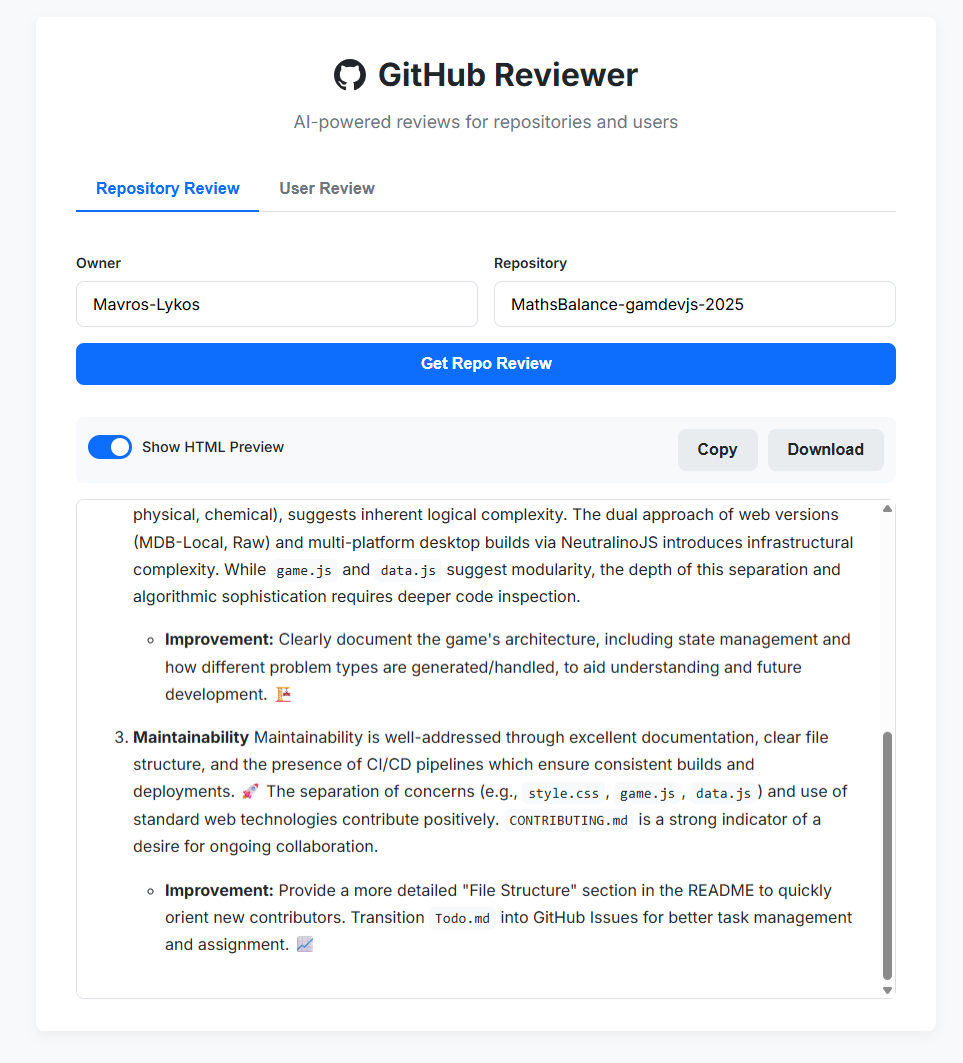
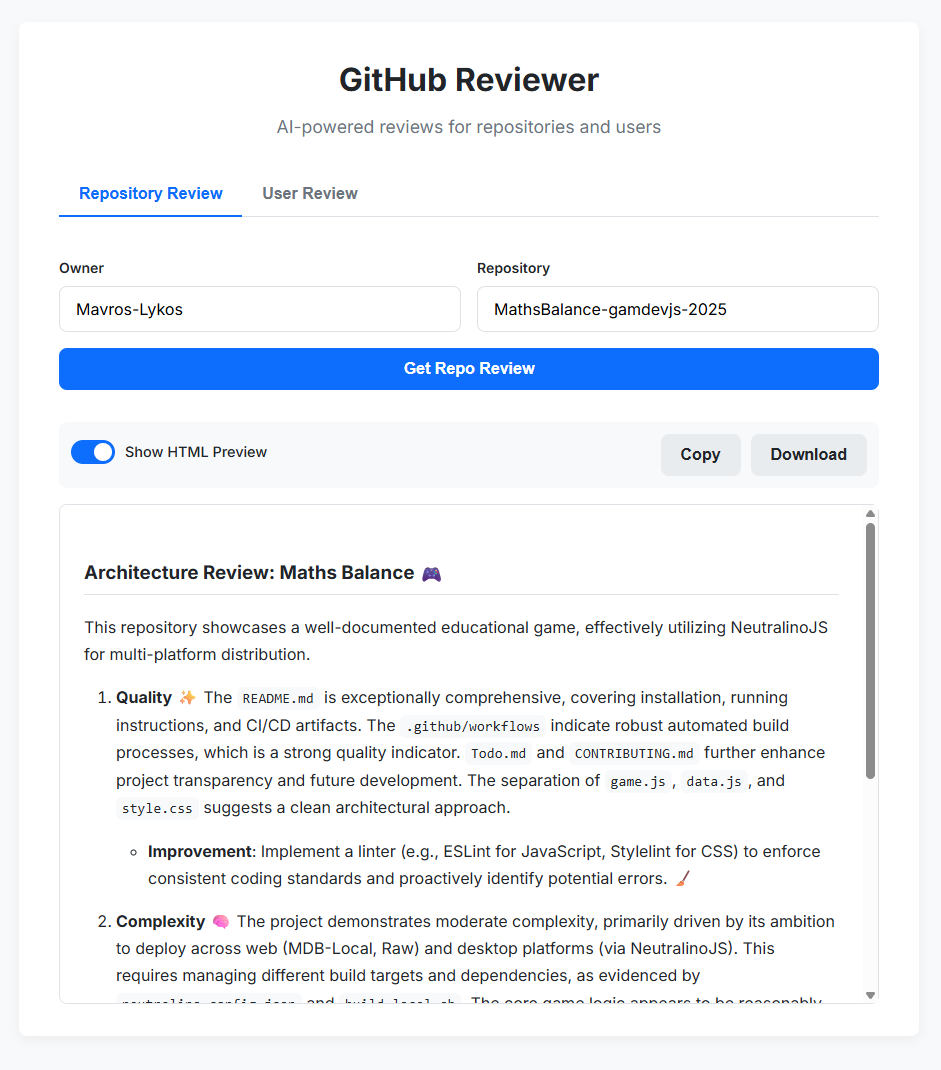
Update header and screenshots in frontend
Removed the GitHub logo SVG from the header in index.html and updated the header text. Also replaced repo.png and user.png screenshots with new versions.

diff --git a/frontend/index.html b/frontend/index.html
@@ -25,10 +25,7 @@
 
     <main class="container">
         <header class="header">
-            <svg class="header-icon" viewBox="0 0 16 16" version="1.1" width="32" height="32" aria-hidden="true">
-                <path fill-rule="evenodd" d="M8 0C3.58 0 0 3.58 0 8c0 3.54 2.29 6.53 5.47 7.59.4.07.55-.17.55-.38 0-.19-.01-.82-.01-1.49-2.01.37-2.53-.49-2.69-.94-.09-.23-.48-.94-.82-1.13-.28-.15-.68-.52-.01-.53.63-.01 1.08.58 1.23.82.72 1.21 1.87.87 2.33.66.07-.52.28-.87.51-1.07-1.78-.2-3.64-.89-3.64-3.95 0-.87.31-1.59.82-2.15-.08-.2-.36-1.02.08-2.12 0 0 .67-.21 2.2.82.64-.18 1.32-.27 2-.27.68 0 1.36.09 2 .27 1.53-1.04 2.2-.82 2.2-.82.44 1.1.16 1.92.08 2.12.51.56.82 1.27.82 2.15 0 3.07-1.87 3.75-3.65 3.95.29.25.54.73.54 1.48 0 1.07-.01 1.93-.01 2.19 0 .21.15.46.55.38A8.013 8.013 0 0016 8c0-4.42-3.58-8-8-8z"></path>
-            </svg>
-            <h1>GitHub Reviewer</h1>
+            Reviewer</h1>
         </header>
         <p class="subtitle">AI-powered reviews for repositories and users</p>
 
